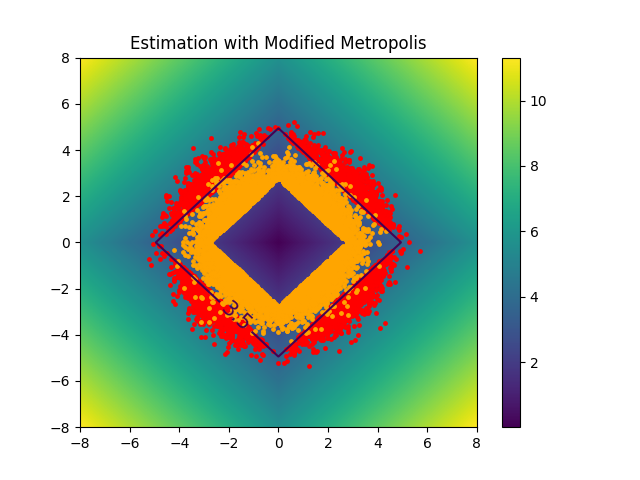
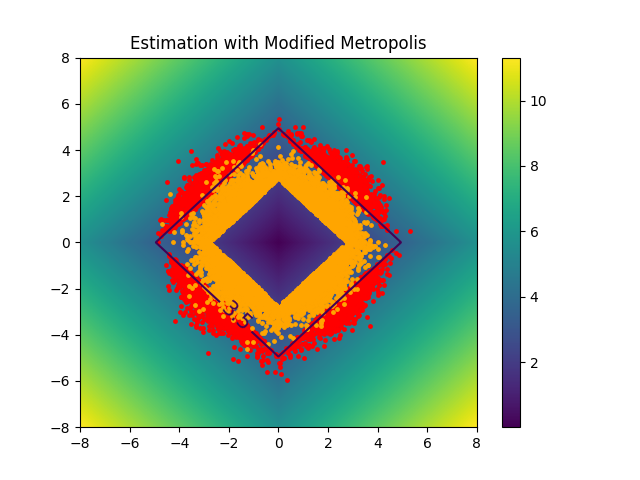
problème MMA

Changed region(s): [[0.2188, 0.25, 0.6562, 0.7812]]

diff --git a/four_branch_d.py b/four_branch_d.py
@@ -2,6 +2,8 @@ import numpy as np
 from function.SS_class import *
 import scipy.stats as sp 
 import time 
+from statsmodels.graphics import tsaplots
+
 ################ Script pour le cas lineaire du 4-branches ###############
 
 #################### TEST DU MODELE DANS LE CAS 2D ########################
@@ -26,6 +28,8 @@ N= 10000
 samples = np.random.normal(size = (2, N))
 pt = 9.3e-4
 t = 3.5
+
+####### Fonction de construction de plot en 2D ###########
 
 def construction_grid(xmin, xmax, ymin, ymax, npoints):
     x = np.linspace(xmin, xmax, npoints)
@@ -59,12 +63,13 @@ def four_branch_2d(X, linear = False):
     return -minimum
 
 
+############# Code implementation du modified dans le cas en GD ############
 from function.SS_VAE import * 
-d = 10
+d = 50
 N = 10000
 rv = sp.multivariate_normal()
 ss_vae = SS_VAE(2,d, rv)
-
+samples = np.random.normal(size = (d, N))
 
 ##### Monte Carlo simple #######
 cmc = CMC(N)
@@ -72,42 +77,45 @@ print(cmc(four_branch, samples, t))
 
 cmc.plot_trajectory(pt,cmc(four_branch, samples, t) )
 
+###### Vanilla Subset simulation 
+sequence, k, failure, quantile, accep_rate = subset_simulation(samples, t, four_branch, .4)
 
-sequence, k, failure, quantile, accep_rate = subset_simulation(samples, t, four_branch, .5)
+print(quantile)
+print(f"Probabilité de defaillance Pf_ss = {failure} et Pf {pt}")
 
-print(quantile, failure)
+if d <= 10 :
+    for j in range(len(sequence)):
+        plt.figure(figsize= (15,5))
+        for i in range(d):
+            plt.subplot(2,int(d/2), i+1)
+            plt.plot(sequence[j][i], label = r"$X_1^%i$"%(i+1))
+            plt.legend()
 
-plt.figure(figsize= (15,5))
-for i in range(len(sequence)):
-    plt.subplot(1,len(sequence), i+1)
-    plt.plot(sequence[i][0], label = r"$X_1^%i$"%(i+1))
-    plt.legend()
 
-
-plt.figure(figsize= (15,5))
-for i in range(len(sequence)):
-    plt.subplot(1,len(sequence), i+1)
-    plt.plot(sequence[i][1], label = r"$X_1^%i$"%(i+1))
-    plt.legend()
-
-plt.show()
+    plt.show()
 
 first_simu = sequence[0]
 last_simu = sequence[-1]
 
 fig, ax = plt.subplots()
-pc = ax.pcolormesh(pos[0], pos[1], four_branch_2d(pos, linear=True))
-fig.colorbar(pc)
-cs = ax.contour(pos[0], pos[1], four_branch_2d(pos, linear=True), levels = [t])
-ax.scatter(last_simu[0], last_simu[ 1], c = "red", s= 6)
-ax.scatter(first_simu[0], first_simu[ 1], c = "orange", s= 6)
-ax.set_title("Linear 4-branch with Vanilla SS")
-fig.savefig('.../figures_ss/Linear_VanillaSS.png')
-plt.show()
+a  =tsaplots.plot_acf(last_simu[0], ax = ax)
 
+if d ==2 : #Plot des simulation en 2D
+    fig, ax = plt.subplots()
+    pc = ax.pcolormesh(pos[0], pos[1], four_branch_2d(pos, linear=True))
+    fig.colorbar(pc)
+    cs = ax.contour(pos[0], pos[1], four_branch_2d(pos, linear=True), levels = [t])
+    ax.scatter(last_simu[0], last_simu[ 1], c = "red", s= 6)
+    ax.scatter(first_simu[0], first_simu[ 1], c = "orange", s= 6)
+    ax.set_title("Linear 4-branch with Vanilla SS")
+    fig.savefig('.../figures_ss/Linear_VanillaSS.png')
+    plt.show()
 
+print(f"Taux d'acceptation moyen pour chaque loi conditionnelle {np.mean(np.array(accep_rate), axis = 1)}")
 
+##### Modified M-H #####
 
+#utilisation d'un noyau gaissian pour chaque dimension : Metropolis 
 class gaussian_kernel():
     def __init__(self, sd,  **kwargs):
         super(gaussian_kernel,self).__init__(**kwargs)
@@ -121,48 +129,53 @@ class gaussian_kernel():
     def density(self, x): #the X distribution is a product of standard gaussian 
         return self.rv.pdf(x)
 
-proposal = gaussian_kernel(.5)
+
+proposal = gaussian_kernel(sd =.3)
 
 modified_metropolis = MMA(proposal)
 
 
 start = time.time()
-sequence, k, failure, quantile, accep_rate = modified_metropolis.call(samples, t, four_branch)
+sequence, k, failure, quantile, accep_rate = modified_metropolis(samples, t, four_branch)
 time.time() - start 
 
-print(k, failure, quantile)
+print(k)
+print(quantile)
+print(f"Probabilité de defaillance Pf = {failure} et {pt}")
 
 
-plt.figure(figsize= (15,5))
-for i in range(len(sequence)):
-    plt.subplot(1,len(sequence), i+1)
-    plt.plot(sequence[i][0], label = r"$X_1^%i$"%(i+1))
-    plt.legend()
+if d <= 10 :
+    for j in range(len(sequence)):
+        plt.figure(figsize= (15,5))
+        for i in range(d):
+            plt.subplot(2,int(d/2), i+1)
+            plt.plot(sequence[j][i], label = r"$X_1^%i$"%(i+1))
+            #c = tsaplots.plot_acf(sequence[j][i], label = r"$X_1^%i$"%(i+1))
+            plt.legend()
 
-
-plt.figure(figsize= (15,5))
-for i in range(len(sequence)):
-    plt.subplot(1,len(sequence), i+1)
-    plt.plot(sequence[i][1], label = r"$X_1^%i$"%(i+1))
-    plt.legend()
-
-plt.show()
+    plt.show()
 
 first_simu = sequence[0]
 last_simu = sequence[-1]
 
-fig, ax = plt.subplots()
-pc = ax.pcolormesh(pos[0], pos[1], four_branch_2d(pos, True))
-fig.colorbar(pc)
-cs = ax.contour(pos[0], pos[1], four_branch_2d(pos, True), levels = [t])
-ax.scatter(last_simu[0], last_simu[ 1], c = "red", s= 6)
-ax.scatter(first_simu[0], first_simu[ 1], c = "orange", s= 6)
-ax.clabel(cs, cs.levels, inline=True, fontsize=15)
-ax.set_title('Estimation with Modified Metropolis')
-fig.savefig('.../figures_ss/Linear_MMA.png')
+a = tsaplots.plot_acf(last_simu[0])
 plt.show()
+print(np.mean(four_branch(last_simu)))
 
-time.time() - start
+if d == 2 : #Plot des simulation en 2D
+    fig, ax = plt.subplots()
+    pc = ax.pcolormesh(pos[0], pos[1], four_branch_2d(pos, True))
+    fig.colorbar(pc)
+    cs = ax.contour(pos[0], pos[1], four_branch_2d(pos, True), levels = [t])
+    ax.scatter(last_simu[0], last_simu[ 1], c = "red", s= 6)
+    ax.scatter(first_simu[0], first_simu[ 1], c = "orange", s= 6)
+    ax.clabel(cs, cs.levels, inline=True, fontsize=15)
+    ax.set_title('Estimation with Modified Metropolis')
+    fig.savefig('.../figures_ss/Linear_MMA.png')
+    plt.show()
 
+print(time.time() - start)
+
+print(f"Taux d'acceptation moyen pour chaque loi conditionnelle {np.mean(np.array(accep_rate), axis=1)}")
 
 

diff --git a/function/SS_class.py b/function/SS_class.py
@@ -2,6 +2,7 @@ import numpy as np
 from scipy import stats
 import matplotlib.pyplot as plt 
 import sys 
+import scipy.stats as sp 
 
 sys.path.append("/Users/ibouafia/Desktop/Stage/VAE/VAE_SS/function")
 #from VAE import *
@@ -80,7 +81,8 @@ class MMA(): #Modifier Metropolis Algorithm
         self.accep_rate = list()
         self.proposal = proposal
 
-    def call(self, sample, threshold, phi,  level = .1):
+    
+    def __call__(self, sample, threshold, phi,  level = .1):
         dim, N = np.shape(sample)
         PHI = phi(sample)
         self.quantile.append(np.quantile(PHI, 1-level)) #look for another way to do quantiles 
@@ -100,28 +102,28 @@ class MMA(): #Modifier Metropolis Algorithm
             sample_threshold = sample[:, random_seed] #N*level samples that lie in Fk 
             phi_threshold = PHI[random_seed]
             ## simulation according to mcmc 
-            chain = np.zeros((dim, N)) # mcmc chain 
             #tensor to parallelize the process 
             L = np.zeros((int(1/level), dim, N)) 
             accep_sequance = np.zeros(N)
             L[0] = sample_threshold
-            phi_accepted = phi_threshold
+            #phi_accepted = phi_threshold
             for j in range(int(1/level-1)):
                 candidate = np.zeros((dim, N)) # dim x N
                 for i in range(dim): #independance allow to treat dimension by dimension 
                     candidate_i = self.proposal.call(L[j, i, :]) #N
                     u = np.random.uniform(size = N) #N
-                    r = self.proposal.density(candidate_i) / self.proposal.density(L[j,i,:]) #N
+                    rv = sp.norm()
+                    r = rv.pdf(candidate_i) / rv.pdf(L[j,i,:]) #N
                     candidate_i = candidate_i * (u < r) + L[j+1, i, : ] * (u>= r) #N
                     candidate[i] = candidate_i
 
                 phi_candidate = phi(candidate) #N
-                phi_accepted[(phi_candidate > self.quantile[k])] = phi_candidate[(phi_candidate > self.quantile[k])]
+                phi_threshold[(phi_candidate > self.quantile[k])] = phi_candidate[(phi_candidate > self.quantile[k])]
                 L[j+1] = candidate * (phi_candidate > self.quantile[k]) + L[j] * (phi_candidate <= self.quantile[k])
                 accep_sequance += 1 * phi_candidate > self.quantile[k]
             
             sample = L[j+1]
-            phi_threshold = phi_accepted
+            #phi_threshold = phi_accepted
             PHI = phi_threshold
 
             self.sequence.append(sample)

diff --git a/function/SS_VAE.py b/function/SS_VAE.py
@@ -81,6 +81,11 @@ class SS_VAE(): #Modifier Metropolis Algorithm
             vae.compile(optimizer = tf.keras.optimizers.Adam(learning_rate=0.0001))
             vae.fit(sample_threshold, epochs = 150, batch_size = 128, shuffle = True) 
 
+            plt.plot(vae.history.history['kl_loss'])
+            plt.show()
+
+            plt.plot(vae.history.history['reconstruction_loss'])
+            plt.show()
 
             ColDist = [ot.Normal(np.array(mu), np.exp(0.5*np.array(sigma))) for mu, sigma in zip(prior.means, prior.logvars)]
             weight = np.array(tf.nn.softmax(prior.w, axis =1)).reshape(-1)
@@ -105,9 +110,11 @@ class SS_VAE(): #Modifier Metropolis Algorithm
                     accep_sequance += 1 * (u<ratio)
                 print(j)
             sample = L[j+1]
-            print(sample)
             PHI = phi_threshold
-
+            print('-------------------------')
+            print(np.mean(PHI))
+            print('-------------------------')
+            
             self.sequence.append(sample)
             self.accep_rate.append(accep_sequance / int(1/level-1))
             self.quantile.append(np.quantile(PHI, 1-level )) #searching the next intermediate 
